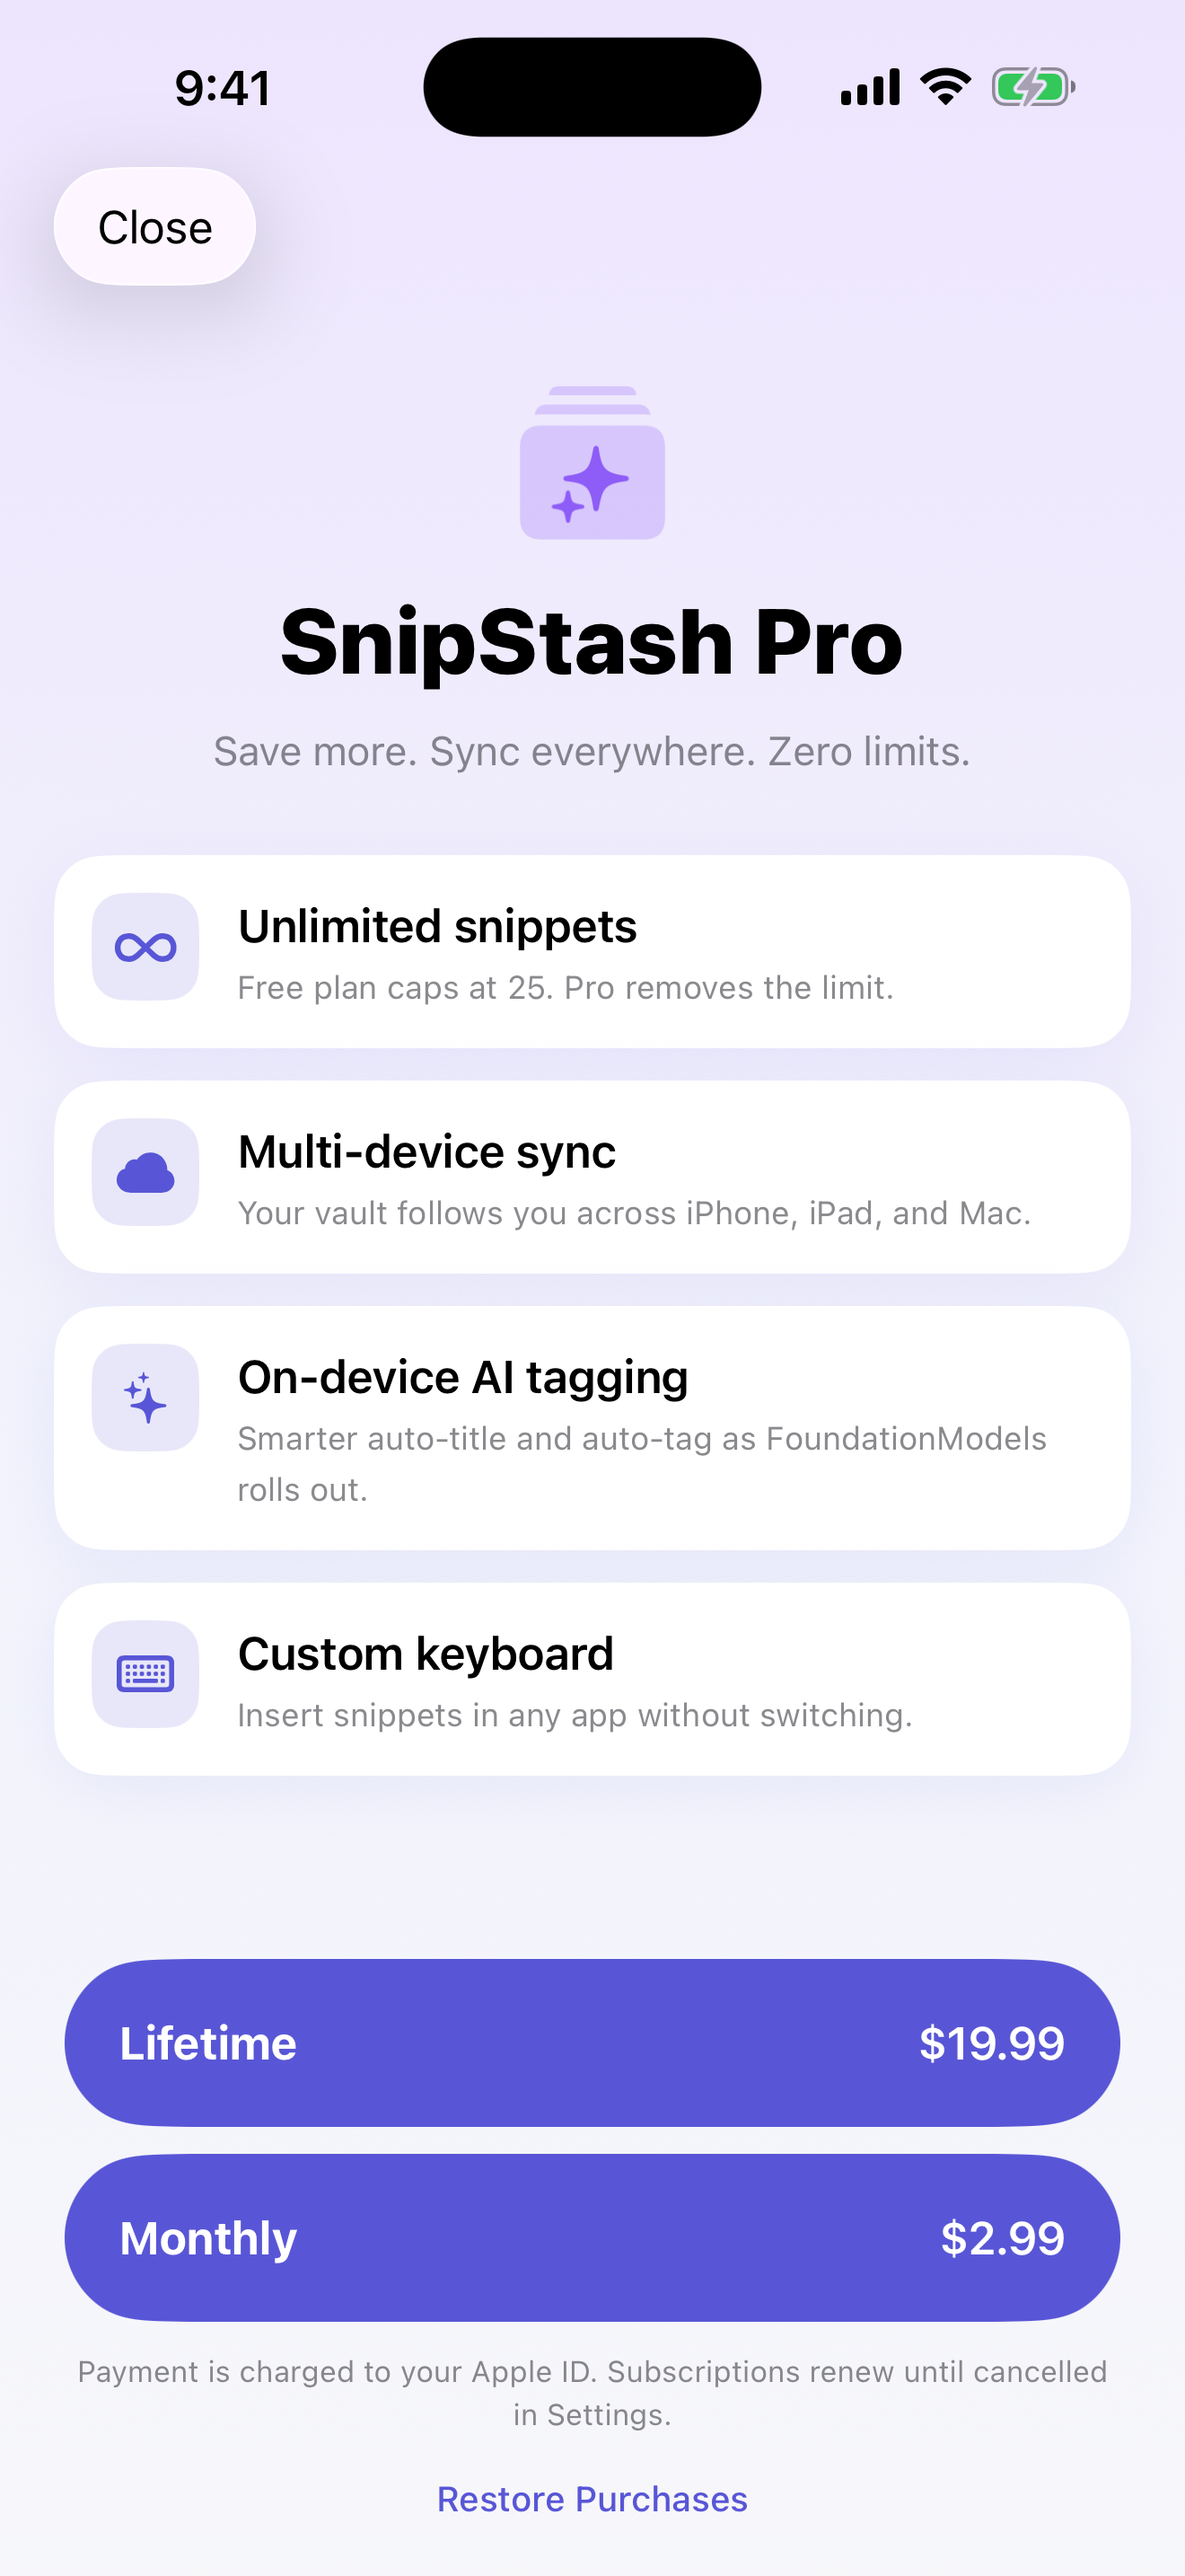
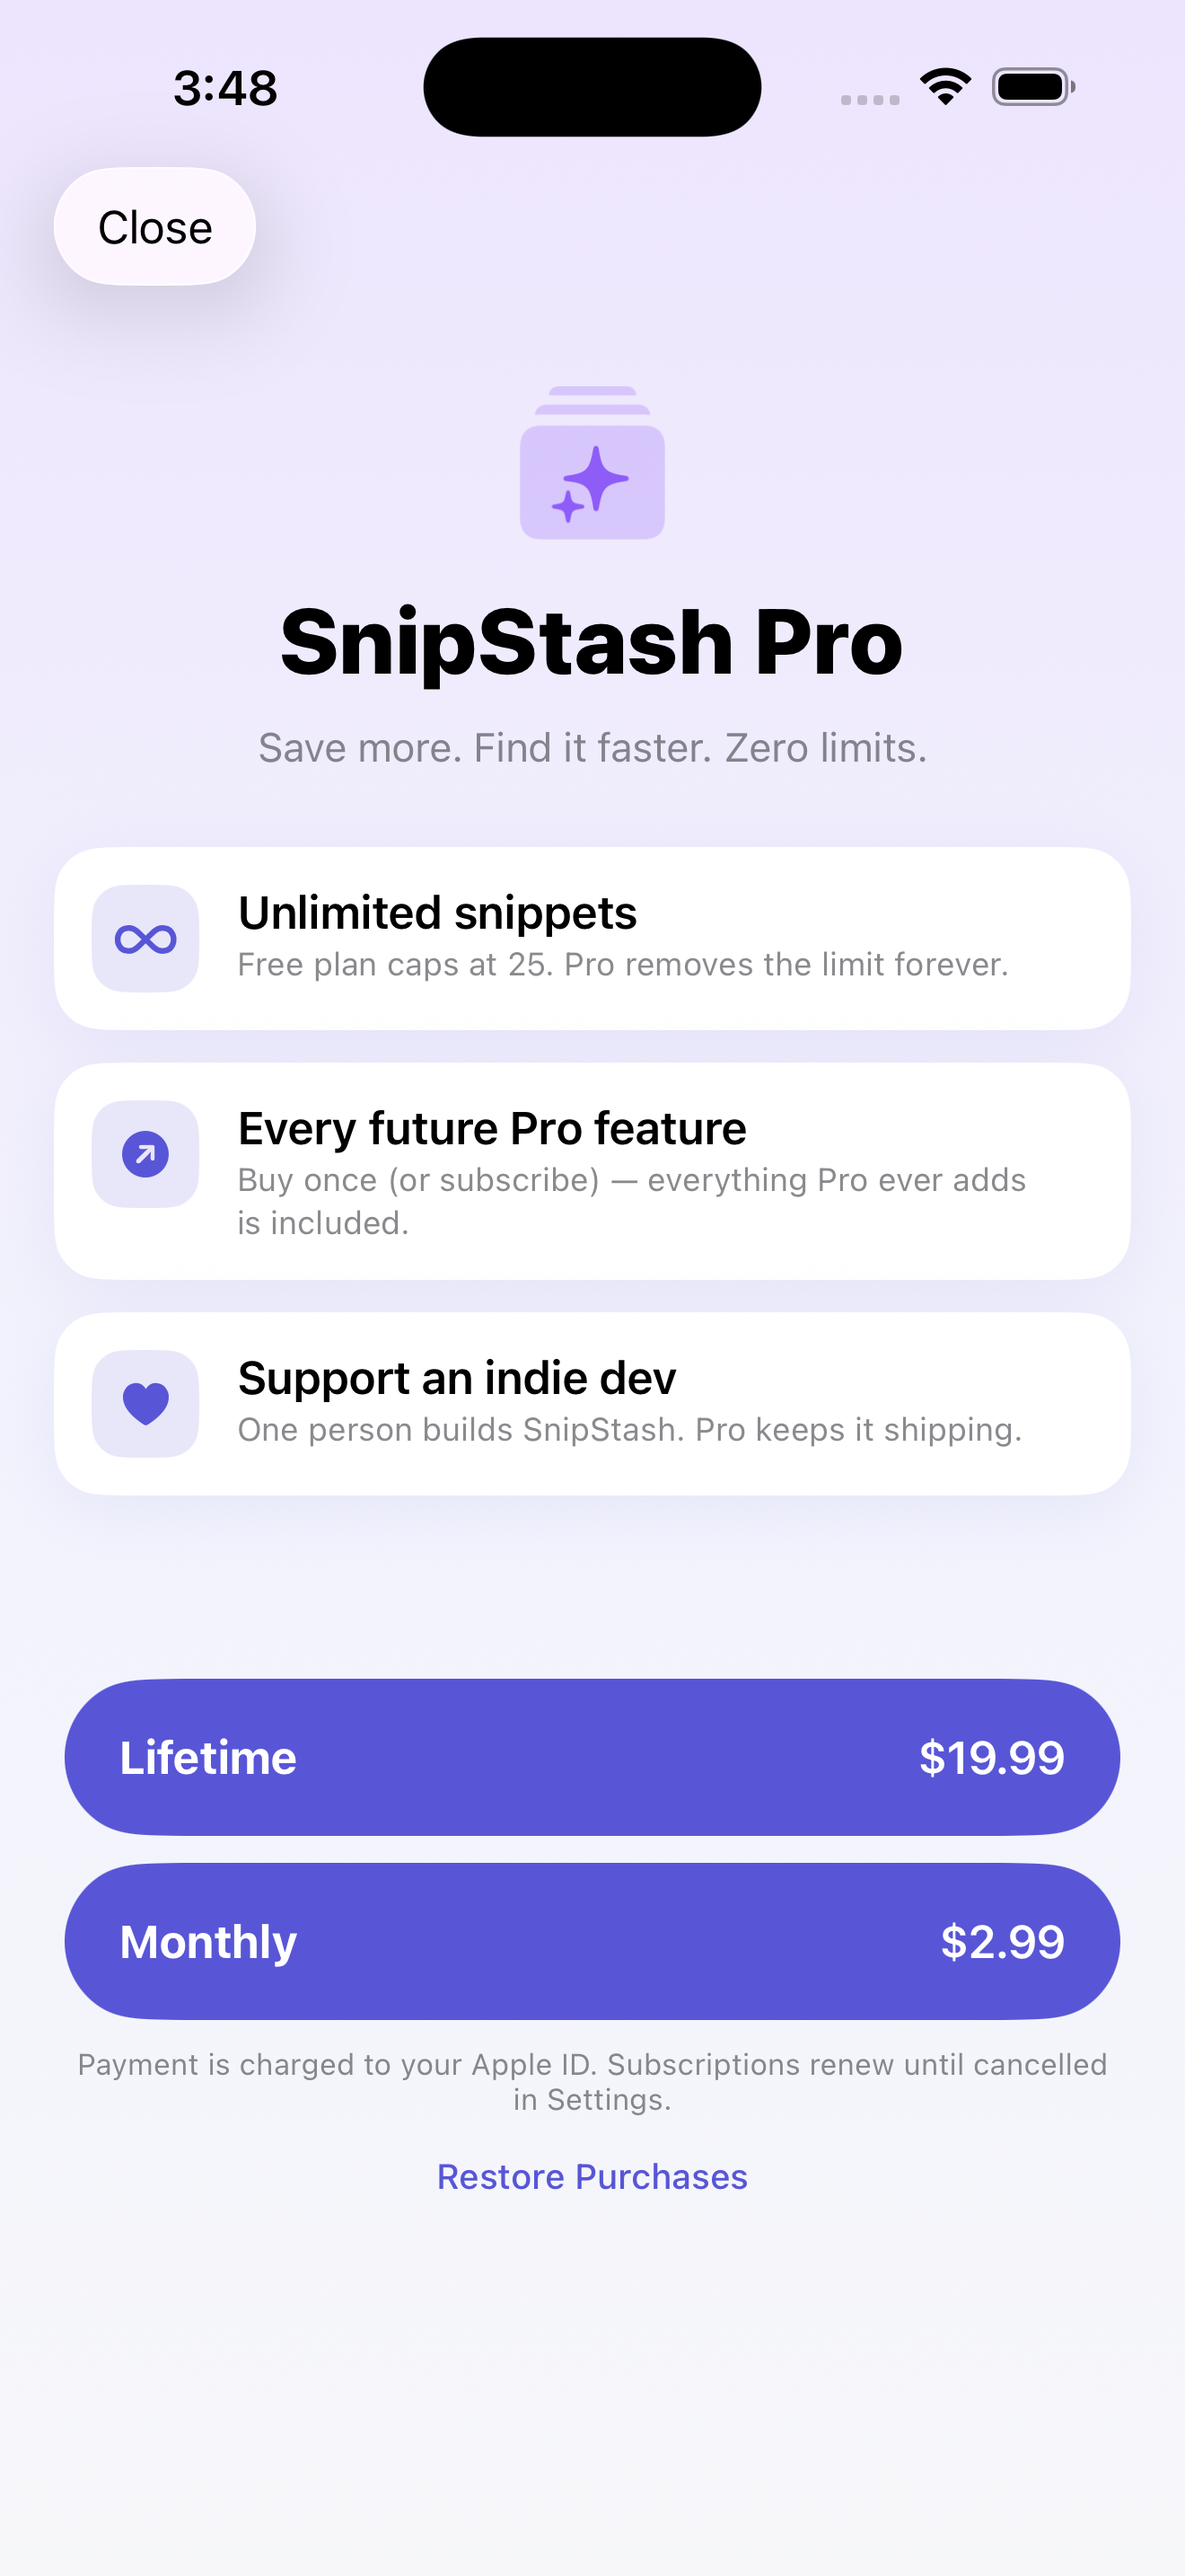
clean captures (honest paywall, safe sample data), captions agent constrained to app facts, SMTP passthrough in deploy

diff --git a/shipwright/agents/captions.py b/shipwright/agents/captions.py
@@ -25,7 +25,11 @@ you only write the text that sits above each one on a branded backdrop.
 
 Ordering rule: panel 1 establishes the category so a searcher instantly recognises what this is;
 panels 2-3 show the mechanic; the last panel is trust/privacy only if the facts support it.
-Produce exactly one entry per screen id, in the order given. Echo words from the final metadata (search-intent match). Never write a price. Never claim what the facts don't list.
+Produce exactly one entry per screen id, in the order given. Echo words from the final metadata (search-intent match). Never write a price.
+HARD RULE — the review's vision check reads every caption as a feature claim: a caption may only
+name a capability that the facts explicitly list as available NOW. Metadata keywords are for
+search, not truth: if a keyword names a feature the facts don't list (templates, sync, keyboard,
+AI), echo the category word instead. When unsure, describe what is visible in the capture.
 
 SCREENS (id → what the capture shows):
 {screens}
